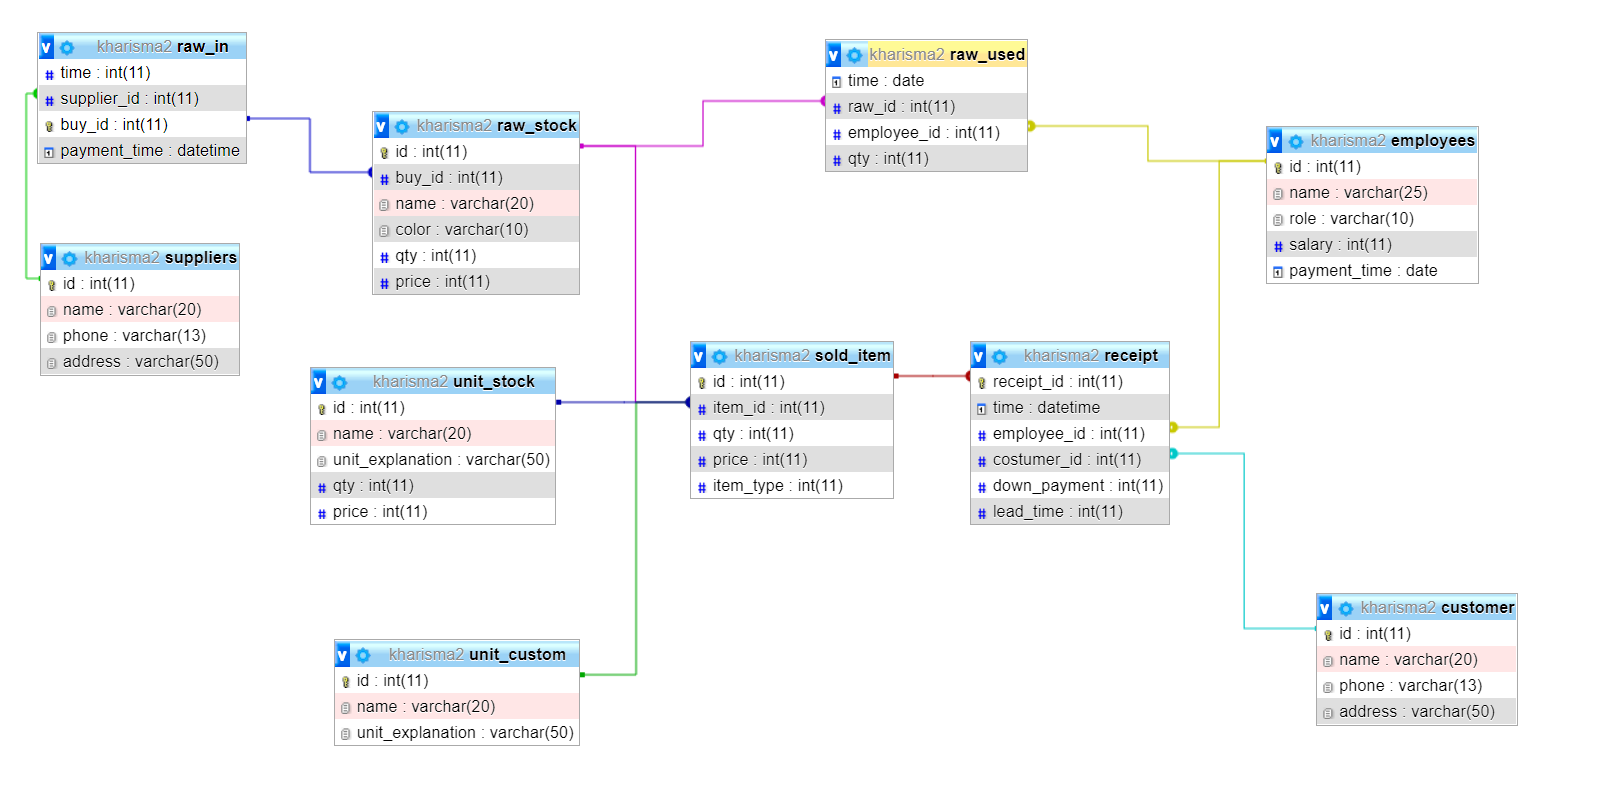
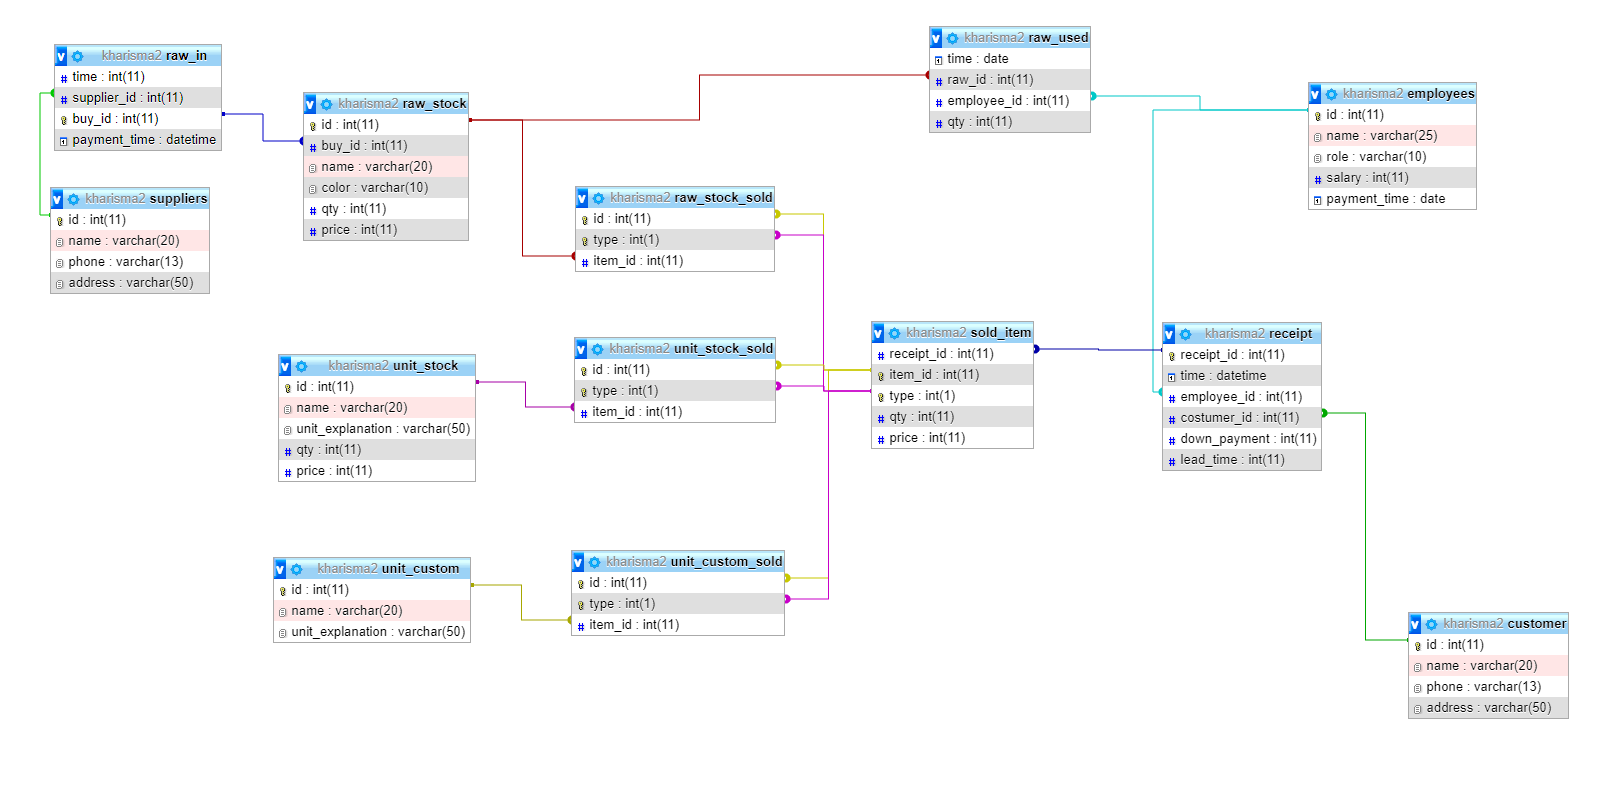
finish sold.php and the data query on receipt.php

diff --git a/sold.php b/sold.php
@@ -1,23 +1,9 @@
 <?php
 require 'data.php';
 
-$id = ($id = read("SELECT receipt_id FROM receipt ORDER BY receipt_id DESC LIMIT 1")) ? $id : 0;
 $raw_stocks = read("SELECT * FROM raw_stock");
 $unit_stocks = read("SELECT * FROM unit_stock");
 // $unit_custom = read("SELECT * FROM unit_custom");
-
-if (isset($_POST["submit"])) {
-
-    // $i = 0;
-    // while (true) {
-    //     $item = "item" . $i;
-    //     $exp = "unit_explanation" . $i;
-    //     $qty = "sold_qty" . $i;
-    //     $price = "price" . $i;
-    //     write("INSERT INTO sold_item VALUES ('$id', '$item')")
-    //     $i++;
-    // }
-}
 
 ?>
 
@@ -81,7 +67,7 @@ if (isset($_POST["submit"])) {
             </section>
         </section>
         <section class="body-main">
-            <form action="" method="POST">
+            <form action="receipt.php" method="POST">
                 <div class="inputs">
                 </div>
                 <button type="submit" name="submit">submit</button>
@@ -94,20 +80,22 @@ if (isset($_POST["submit"])) {
         var newRawItem = (id, name, color, price, key) => {
             let div = document.createElement("div");
             let jsx = `
+                <input type="text" name="id[]" value="${id}" style="display:none;">
+                <input type="text" class="type${key}" name="item_type[]" value="0" style="display:none;">
                 <label>
-                    <input type="text" name="item${key}" value="${name}">
+                    <input type="text" name="item[]" value="${name}">
                 </label>
                 <label>
                     Price
-                    <input type="text" name="color${key}" value="${color}">
+                    <input type="text" name="color[]" value="${color}">
                 </label>
                 <label>
                     Quantity
-                    <input type="number" name="sold_qty${key}">
+                    <input type="number" name="sold_qty[]">
                 </label>
                 <label>
                     Price
-                    <input type="number" name="price${key}" value="${price * 2.5}">
+                    <input type="number" name="price[]" value="${price * 2.5}">
                 </label>
             `;
             div.innerHTML = jsx;
@@ -117,24 +105,31 @@ if (isset($_POST["submit"])) {
         var newStockUnit = (id, name, unit_explanation, price, key) => {
             let div = document.createElement("div");
             let jsx = `
+                <input type="text" name="id[]" value="${id}" style="display:none;">
+                <input type="text" class="type${key}" name="item_type[]" value="1" style="display:none;">
                 <label>
-                    <input type="text" name="item${key}" value="${name}">
+                    <input type="text" name="item[]" value="${name}">
                 </label>
                 <label>
                     unit explanation
-                    <input type="text" name="unit_explanation${key}" value="${unit_explanation}">
+                    <input type="text" name="unit_explanation[]" value="${unit_explanation}" onchange="changeItemType('type${key}')">
                 </label>
                 <label>
                     Quantity
-                    <input type="number" name="sold_qty${key}">
+                    <input type="number" name="sold_qty[]">
                 </label>
                 <label>
                     Price
-                    <input type="number" name="price${key}" value="${price}">
+                    <input type="number" name="price[]" value="${price}">
                 </label>
             `;
             div.innerHTML = jsx;
             inputs.appendChild(div);
+        }
+
+        var changeItemType = (key) => {
+            let type = document.querySelector("." + key).value = "2";
+            console.log(type);
         }
     </script>
 </body>

diff --git a/receipt.php b/receipt.php
@@ -1,0 +1,58 @@
+<?php
+require 'data.php';
+
+$employee = 'harvin';
+
+$x = read("SELECT id FROM employees WHERE name='$employee'");
+$employee_id = $x[0]["id"];
+$date = date("Y-m-d H-i-s");
+
+$receipt_id = write("INSERT INTO receipt VALUES ('', '$date', '$employee_id', '1', '0', '0')");
+
+$types = $_POST["item_type"];
+$custom_cnt = 0;
+foreach ($types as $key => $type) {
+    $id = $_POST["id"][$key];
+    $qty = $_POST["sold_qty"][$key];
+    $price = $_POST["price"][$key];
+
+    switch ($type) {
+        case 0: {
+                $item_id = write("INSERT INTO sold_item VALUES ('$receipt_id', '', '$type', '$qty', '$price')");
+                write("INSERT INTO raw_stock_sold VALUES ('$item_id', '$type', '$id')");
+                break;
+            }
+        case 1: {
+                $item_id = write("INSERT INTO sold_item VALUES ('$receipt_id', '', '$type', '$qty', '$price')");
+                write("INSERT INTO unit_stock_sold VALUES ('$item_id', '$type', '$id')");
+                break;
+            }
+        case 2: {
+                $name = $_POST["item"][$custom_cnt];
+                $exp = $_POST["unit_explanation"][$custom_cnt];
+                $custom_item_id = write("INSERT INTO unit_custom VALUES ('', '$name', '$exp')");
+                $item_id = write("INSERT INTO sold_item VALUES ('$receipt_id', '', '$type', '$qty', '$price')");
+                write("INSERT INTO unit_custom_sold VALUES ('$item_id', '$type', '$custom_item_id')");
+                $custom_cnt++;
+                break;
+            }
+    }
+}
+
+?>
+
+<!DOCTYPE html>
+<html lang="en">
+
+<head>
+    <meta charset="UTF-8">
+    <meta http-equiv="X-UA-Compatible" content="IE=edge">
+    <meta name="viewport" content="width=device-width, initial-scale=1.0">
+    <title>Document</title>
+</head>
+
+<body>
+
+</body>
+
+</html>

diff --git a/data.php b/data.php
@@ -6,7 +6,9 @@ $conn = new mysqli("localhost", "root", "", "kharisma2");
 function read($sql)
 {
     global $conn;
-    $item = $conn->query($sql);
+    if (!$item = $conn->query($sql)) {
+        echo $conn->error;
+    }
     $database = [];
     while ($data = $item->fetch_assoc()) {
         $database[] = $data;
@@ -18,8 +20,10 @@ function read($sql)
 function write($sql)
 {
     global $conn;
-    $conn->query($sql);
-    return true;
+    if (!$conn->query($sql)) {
+        echo $conn->error;
+    }
+    return $conn->insert_id;
 }
 
 function rupiah($angka)

diff --git a/README.md b/README.md
@@ -1,1 +1,6 @@
 # kharisma-alumunium-admin
+
+item_type:
+0 = raw_stock
+1 = unit_stock
+2 = unit custom
